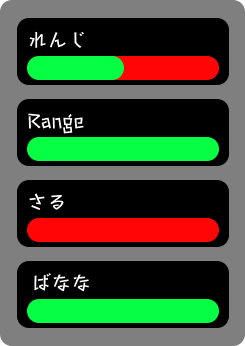
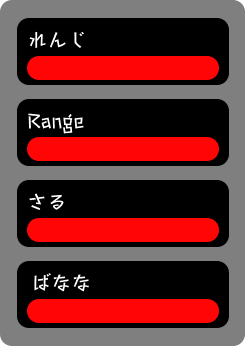
HPの実装途中

Changed region(s): [[0.1143, 0.8671, 0.9143, 0.9538], [0.1143, 0.3757, 0.9143, 0.4624], [0.1143, 0.1445, 0.5143, 0.2312]]

diff --git a/Source/Game/PlayScene/PlaySceneUIController.h b/Source/Game/PlayScene/PlaySceneUIController.h
@@ -4,18 +4,29 @@
 /// @brief プレイシーンのUI操作データ
 struct PlaySceneUIControllerData
 {
+	PlaySceneUIControllerData(
+	    GameObject objPlayer_)
+	{
+		objPlayer = objPlayer_;
+	};
+
 	GameObject objTaskBackground{};  ///< タスク情報の背景
 	GameObject objTaskText{};        ///< タスク情報のテキスト
 	GameObject objBossInfo{};        ///< ボスの体力ゲージUI
 	GameObject objHotBar{};          ///< アイテムのホットスロットバーUI
 	GameObject objMiniMap{};         ///< ミニマップUI
 	GameObject objOtherInfo{};       ///< 味方の体力ゲージ
-	GameObject objSelfInfo{};        ///< 自分の体力ゲージ
+	GameObject objSelfInfo{};        ///< 自分の体力ゲージ裏
+	GameObject objMyGage{};          ///< 自分の体力ゲージ緑
+
+	GameObject objPlayer{};  ///< MyGageに渡すプレイヤー
 };
 
 /// @brief プレイシーンのUI操作
 struct PlaySceneUIController : ObjectBase<PlaySceneUIControllerData>
 {
+	using ObjectBase<PlaySceneUIControllerData>::ObjectBase;
+
 	/// @brief 開始処理
 	void Start() override;
 };

diff --git a/Source/Game/PlayScene/UI/MyGage.cpp b/Source/Game/PlayScene/UI/MyGage.cpp
@@ -1,0 +1,35 @@
+#include "pch\pch.h"
+#include "MyGage.h"
+#include "../Player.h"
+
+void MyGage::Start()
+{
+	// ゲージの初期幅を設定
+	transform.scale.x = maxWidth;
+}
+
+void MyGage::Update()
+{
+	// プレイヤーを取得
+	Player& player = Get<Player>(objPlayer);
+
+	// 最大HPが0以下なら計算しない
+	if (player.Data().maxHP <= 0)
+	{
+		transform.scale.x = 0.0f;
+		return;
+	}
+
+	// HPの割合を計算（0.0～1.0）
+	float hpRate = static_cast<float>(player.Data().hp) / static_cast<float>(player.Data().maxHP);
+
+	// 割合を0～1の範囲に制限
+	if (hpRate < 0.0f)
+		hpRate = 0.0f;
+
+	if (hpRate > 1.0f)
+		hpRate = 1.0f;
+
+	// HPの割合に応じてゲージの幅を変更
+	transform.scale.x = maxWidth * hpRate;
+}

diff --git a/Source/Game/PlayScene/PlayScene.cpp b/Source/Game/PlayScene/PlayScene.cpp
@@ -17,6 +17,7 @@
 #include "PlaySceneUIController.h"
 #include <../Resource/MAP/MAP.h>
 #include "Harvestable.h"
+#include "UI/MyGage.h"
 
 void PlayScene::Start()
 {
@@ -38,7 +39,7 @@ void PlayScene::Start()
 	GameObject objPlayer     = Instantiate<Player>(objMainCamera);
 	Instantiate<PlayNetworkController>(objPlayer, objMainCamera, objEnemy);
 
-	GameObject objPlaySceneUIController = Instantiate<PlaySceneUIController>();
+	GameObject objPlaySceneUIController = Instantiate<PlaySceneUIController>(objPlayer);
 
 	Instantiate<Harvestable>(HarvestableType::Tree, Vec3{ 0.0f, 0.0f, 0.0f }, 1.0f);
 }

diff --git a/Source/Game/PlayScene/UI/MyGage.h b/Source/Game/PlayScene/UI/MyGage.h
@@ -1,0 +1,29 @@
+#pragma once
+#include <Game/Game.h>
+
+struct MyGageData
+{
+	MyGageData(
+	    GameObject _objPlayer) :
+	    objPlayer{ _objPlayer }
+	{
+	}
+
+	GameObject objPlayer{};
+
+	Resource<Texture> texture{ "Image/UI/MyGage.png" };
+
+	const float maxWidth{ 423.0f };
+
+	Component<UITransform> transform{ Vec2{ 265, 987 }, Vec2{ 423, 31 } };
+
+	Component<UIImage> image{ texture };
+};
+
+struct MyGage : ObjectBase<MyGageData>
+{
+	using ObjectBase<MyGageData>::ObjectBase;
+
+	void Start() override;
+	void Update() override;
+};

diff --git a/Source/Game/PlayScene/PlaySceneUIController.cpp b/Source/Game/PlayScene/PlaySceneUIController.cpp
@@ -6,6 +6,7 @@
 #include "UI/MiniMap.h"
 #include "UI/OtherInfo.h"
 #include "UI/SelfInfo.h"
+#include "UI/MyGage.h"
 
 void PlaySceneUIController::Start()
 {
@@ -15,4 +16,5 @@ void PlaySceneUIController::Start()
 	objMiniMap        = GetScene().Instantiate<MiniMap>();
 	objOtherInfo      = GetScene().Instantiate<OtherInfo>();
 	objSelfInfo       = GetScene().Instantiate<SelfInfo>();
+	objMyGage         = GetScene().Instantiate<MyGage>(objPlayer);
 }

diff --git a/Source/Game/PlayScene/Player.h b/Source/Game/PlayScene/Player.h
@@ -36,8 +36,9 @@ struct PlayerData
 	int animIndex{};
 
 	// パラメータ
-	int32_t hp{};
-	int32_t damage{};
+	int32_t maxHP{ 100 };  // 最大HP
+	int32_t hp{ 100 };     // 現在HP
+	int32_t damage{ 10 };  // 攻撃力
 
 	const float ATTACK_COOL_TIME{ 5.0f };
 	float nowAttackCoolTime{ 0.0f };

diff --git a/Source/Game/PlayScene/Player.cpp b/Source/Game/PlayScene/Player.cpp
@@ -186,9 +186,15 @@ void Player::AttackCollider()
 void Player::Damaged(
     int32_t damage)
 {
-	if (nowDamagedCoolTime <= 0.0f)
+	if (nowDamagedCoolTime <= 0.0f && hp > 0)
 	{
 		hp -= damage;
+
+		if (hp < 0)
+		{
+			hp = 0;
+		}
+
 		nowDamagedCoolTime = DAMAGED_COOL_TIME;
 	}
 }
